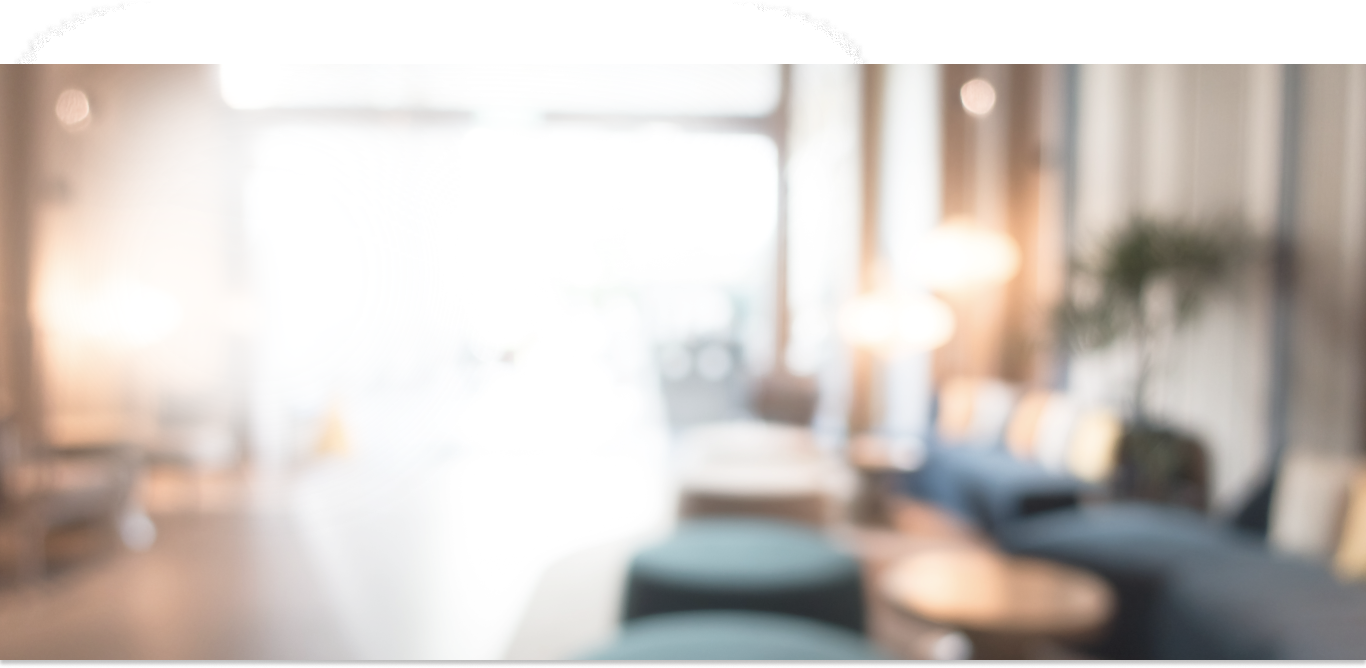
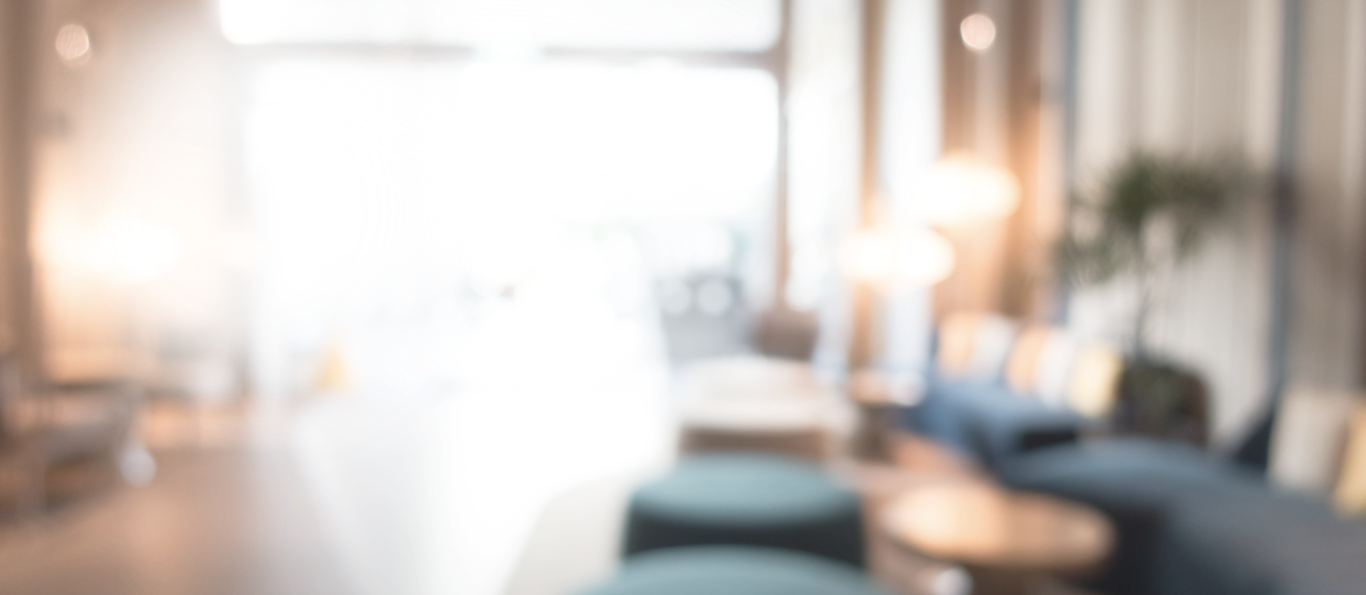
fix(css): fix bloc 1

diff --git a/app/components/Bloc1.jsx b/app/components/Bloc1.jsx
@@ -22,76 +22,58 @@ const Bloc1 = ({ page, locale  }) => {
     }
 
     return (
-        <div className={styles.kalHero}>
+        <div className="kal-hero">
 
-            <div className={styles.kalHeroContent}>
-                <div className="md:grid md:grid-cols-3">
-                    <div className="md:col-span-2">
-                        <h1 className={styles.kalHeroContentH1}>
+                    <div >
+                        <h1>
                             {translations.Bloc1["titre_bloc1"]}
                         </h1>
-                        <div className={styles.bloc1Partie1}>
+                        <section >
                             {translations.Bloc1.repeteurCheckGreenBloc1?.map((item, index) => (
-                                <div className={styles.repeteurCheckGreenBloc1} key={index}>
-                                    <Image
-                                        src={item.mediaItemUrl}
-                                        alt=""
-                                        width={20}
-                                        height={20}
-                                        priority
-                                        className={styles.repeteurCheckGreenBloc1Img}
-                                    />
-                                    <h4 className="">{item.texte_check_green}</h4>
+                                <div  key={index}>
+                                    <svg width="24" height="24" viewBox="0 0 24 24" fill="none" xmlns="http://www.w3.org/2000/svg">
+                    <g id="check-white">
+                        <path id="minus-square-Bold" d="M15.6 0H8.4C3.768 0 0 3.7692 0 8.4V15.6C0 20.2308 3.768 24 8.4 24H15.6C20.232 24 24 20.2308 24 15.6V8.4C24 3.7692 20.232 0 15.6 0Z" fill="#2FC977"></path>
+                        <path id="Vector 3 (Stroke)" fill-rule="evenodd" clip-rule="evenodd" d="M17.6485 8.75137C18.1172 9.22 18.1172 9.9798 17.6485 10.4484L11.6485 16.4484C11.1799 16.9171 10.4201 16.9171 9.95147 16.4484L6.35147 12.8484C5.88284 12.3798 5.88284 11.62 6.35147 11.1514C6.8201 10.6827 7.5799 10.6827 8.04853 11.1514L10.8 13.9028L15.9515 8.75137C16.4201 8.28275 17.1799 8.28275 17.6485 8.75137Z" fill="white"></path>
+                    </g>
+                </svg>
+                                    <h4>{item.texte_check_green}</h4>
                                 </div>
                             ))}
                             {page?.pageDAccueilBloc1?.titre_h4_bloc1 && (
-                                <div className="flex">
-                                    <h4 className={styles.bloc1Partie1H4}>{page.pageDAccueilBloc1.titre_h4_bloc1}</h4>
-                                </div>
+                                    <p className={styles.bloc1Partie1H4}>{page.pageDAccueilBloc1.titre_h4_bloc1}</p>
                             )}
-                        </div>
+                        </section>
 
-                        <div className={styles.kalHeroAside}>
+                        <aside >
                             {translations.Bloc1.repeteurCheckWhiteBloc1?.map((item, index) => (
-                                <div className={styles.repeteurCheckWhiteBloc1} key={index}>
-                                    <div className={styles.repeteurCheckWhiteBloc1Div1}>
-                                        <Image
-                                            className={styles.repeteurCheckWhiteBloc1Img}
-                                            src={item.mediaItemUrl}
-                                            alt=""
-                                            width={20}
-                                            height={20}
-                                            //layout="responsive"
-                                            priority
-                                        />
-                                    </div>
-                                    <div className={styles.repeteurCheckWhiteBloc1Div2}>
-                                        <h4 className={styles.repeteurCheckWhiteBloc1H4}>{item.texte_check_white}</h4>
-                                    </div>
+                                <div  key={index}>
+                                    <svg width="20" height="20" viewBox="0 0 20 20" fill="none" xmlns="http://www.w3.org/2000/svg">
+                    <g id="check-white">
+                        <path id="minus-square-Bold" d="M13 0H7C3.14 0 0 3.141 0 7V13C0 16.859 3.14 20 7 20H13C16.86 20 20 16.859 20 13V7C20 3.141 16.86 0 13 0Z" fill="white"></path>
+                        <path id="Vector 3 (Stroke)" fill-rule="evenodd" clip-rule="evenodd" d="M14.7071 7.29289C15.0976 7.68342 15.0976 8.31658 14.7071 8.70711L9.70711 13.7071C9.31658 14.0976 8.68342 14.0976 8.29289 13.7071L5.29289 10.7071C4.90237 10.3166 4.90237 9.68342 5.29289 9.29289C5.68342 8.90237 6.31658 8.90237 6.70711 9.29289L9 11.5858L13.2929 7.29289C13.6834 6.90237 14.3166 6.90237 14.7071 7.29289Z" fill="black"></path>
+                    </g>
+                </svg>
+                                        <p className={styles.repeteurCheckWhiteBloc1H4}>{item.texte_check_white}</p>
                                 </div>
                             ))}
-                        </div>
+                        </aside>
 
-                        <div className={styles.kalSearch}>
                             <KalSearch/>
-                        </div>
-                    </div>
-                    <div className="md:flex md:items-end">
-                        <div className={styles.girl}>
+
+                        <article >
                             <Image
-                                className={styles.girlImg}
                                 src={translations.Bloc1.girl}
                                 alt="Hero Girl"
-                                width={300}
-                                height={300}
+                                width={497}
+                                height={600}
                                 priority
                             />
-                        </div>
+                    </article>
                     </div>
-                </div>
+                    
             </div>
 
-        </div>
     );
 };
 

diff --git a/app/globals.css b/app/globals.css
@@ -2080,7 +2080,7 @@ overflow-x: hidden;
 }
 
 .kal-hero {
-    background: var(--wpr-bg-8dcb6324-1cbc-46c0-8c9c-0bdf9e6688cb);
+    background: url('/images/Bloc1/background.png');
     background-color: white;
     padding: 80px 50px;
     object-fit: cover;
@@ -2491,4 +2491,17 @@ cursor: not-allowed; /* Curseur non autorisé lors du survol */
 p,
 h4 {
   margin: 0;
+}
+@media screen and (max-width: 1200px) {
+  .kal-hero > div > article > img {
+    width: 415px;
+    height: 500px;
+  }
+}
+
+@media screen and (max-width: 1050px) {
+  .kal-hero > div > article > img {
+    width: 374px;
+    height: 450px;
+  }
 }
